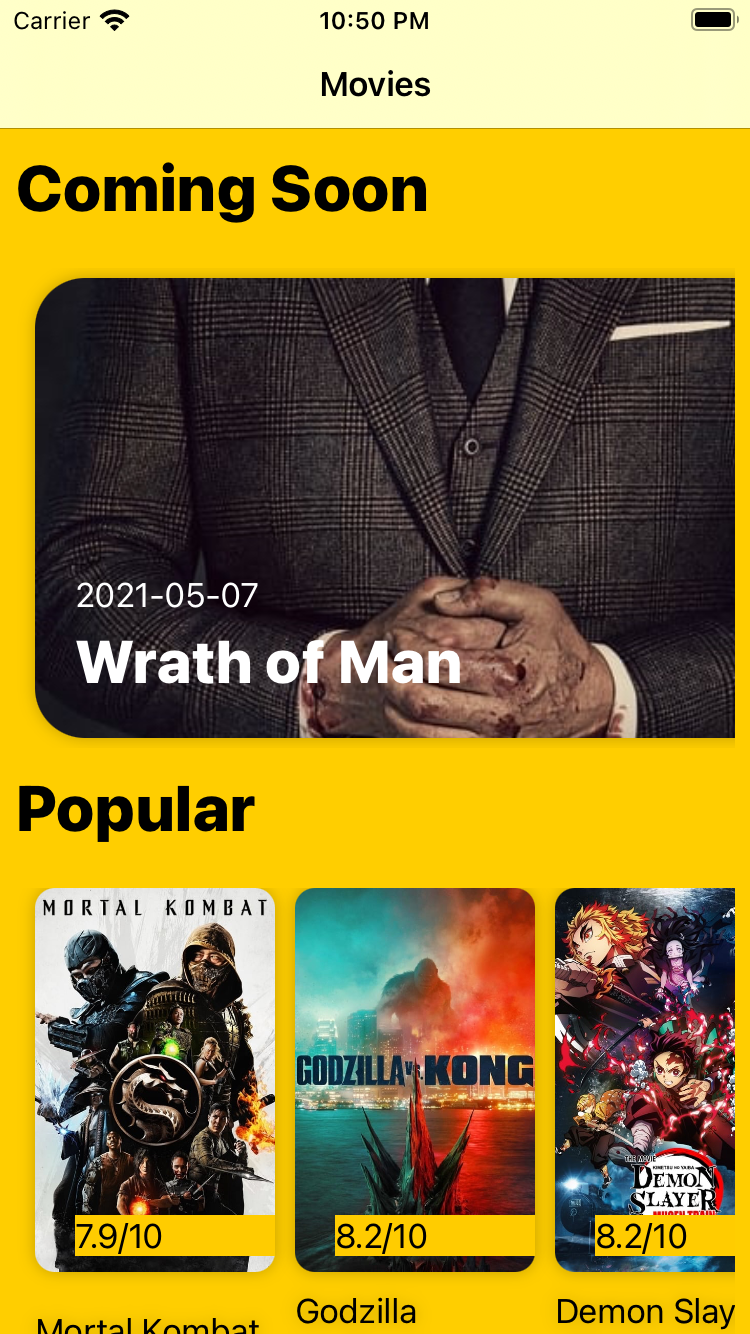
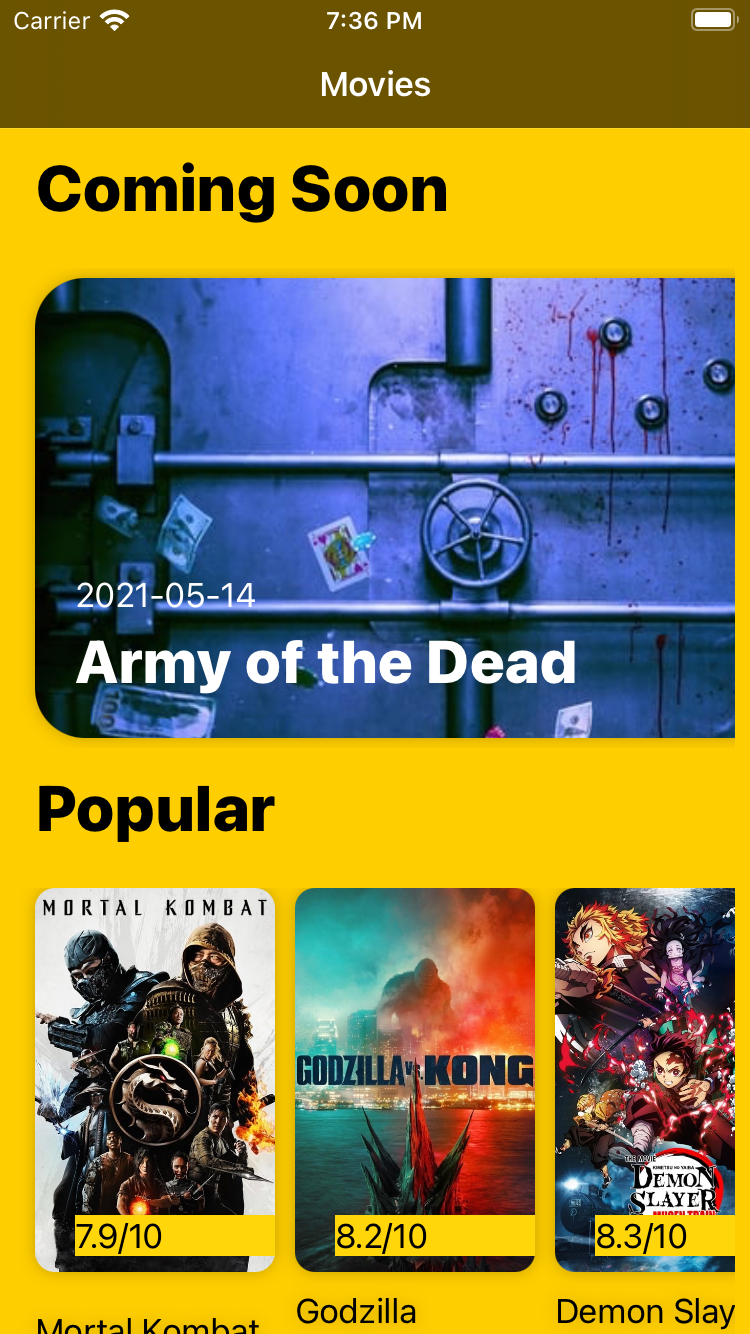
Updates ss, adjusts layout slighting on headers in homescreen

diff --git a/README.md b/README.md
@@ -8,7 +8,7 @@ youtube-ios-player-helper, Alamofire, Kingfisher
 
 Current screenshots
 
-<img src="./AppScreenshots/Popular4.png" width="200"><img src="./AppScreenshots/details.png" width="200">
+<img src="./AppScreenshots/Popular4.png" width="200"><img src="./AppScreenshots/detail2.png" width="200">
 
 
 ToDo :
